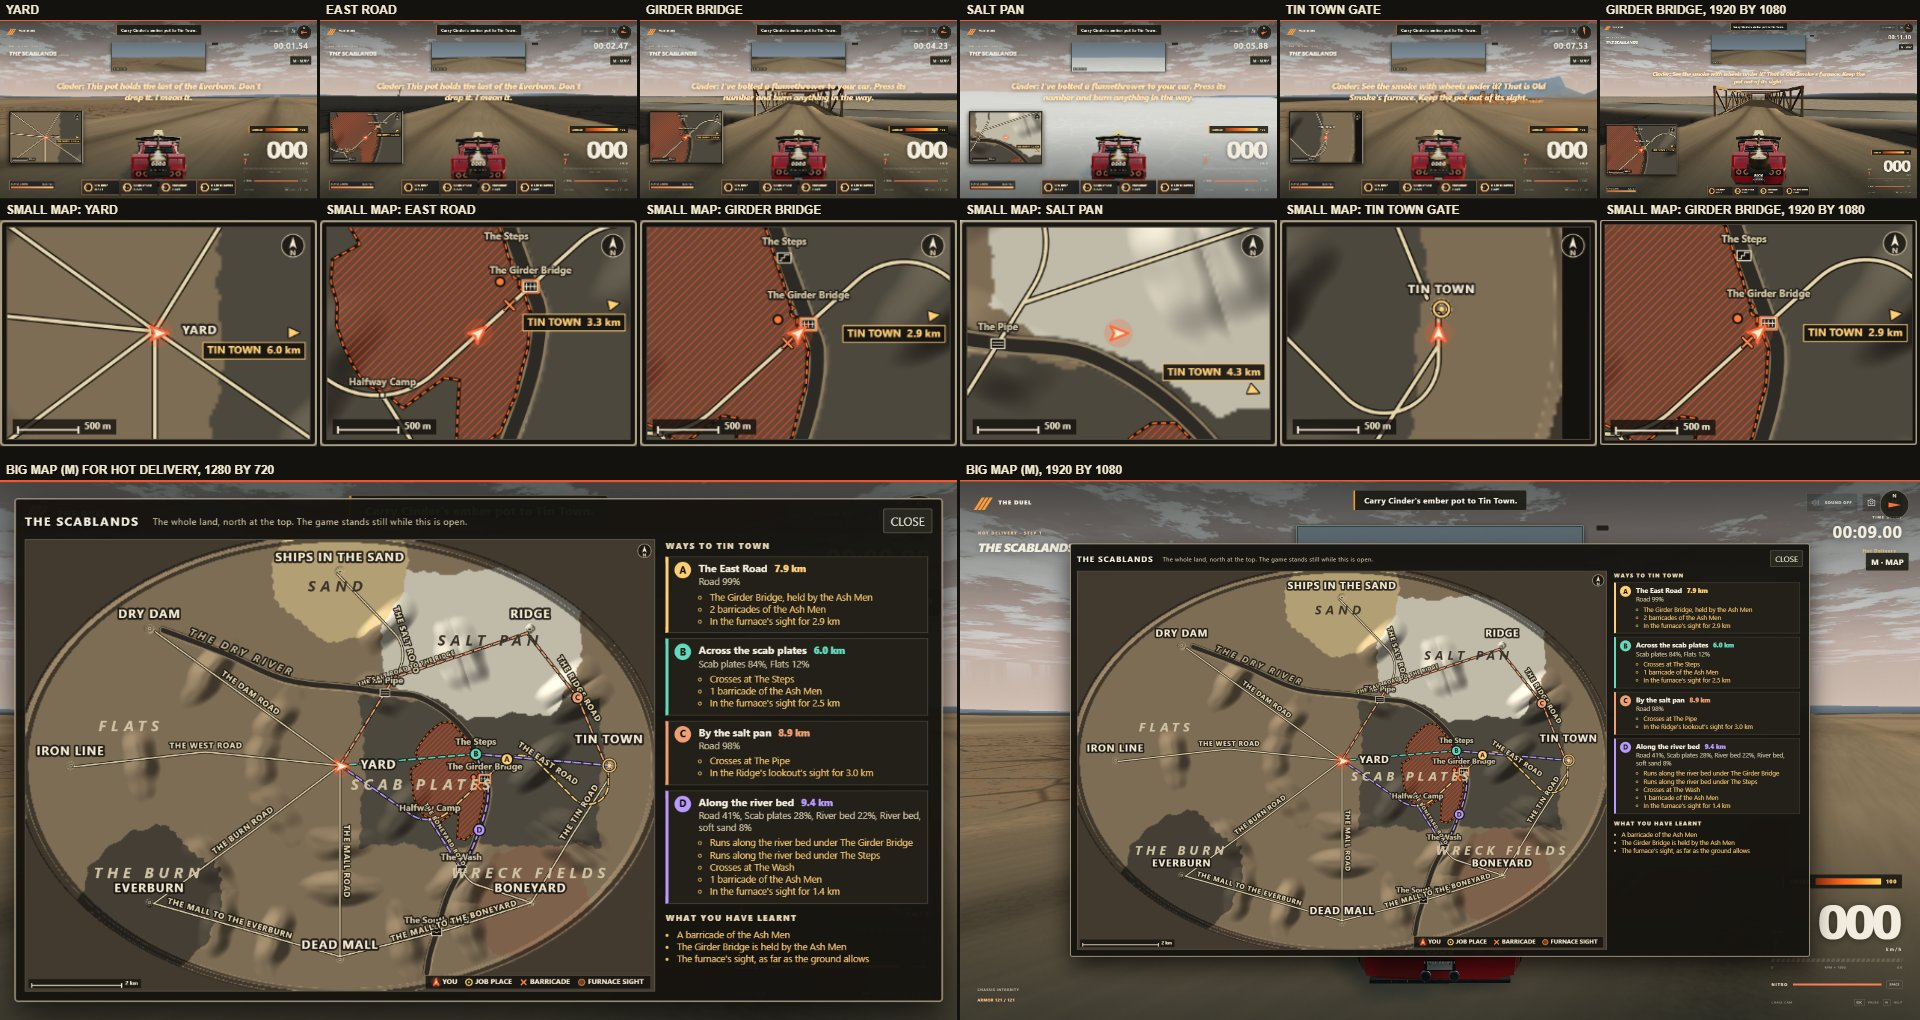
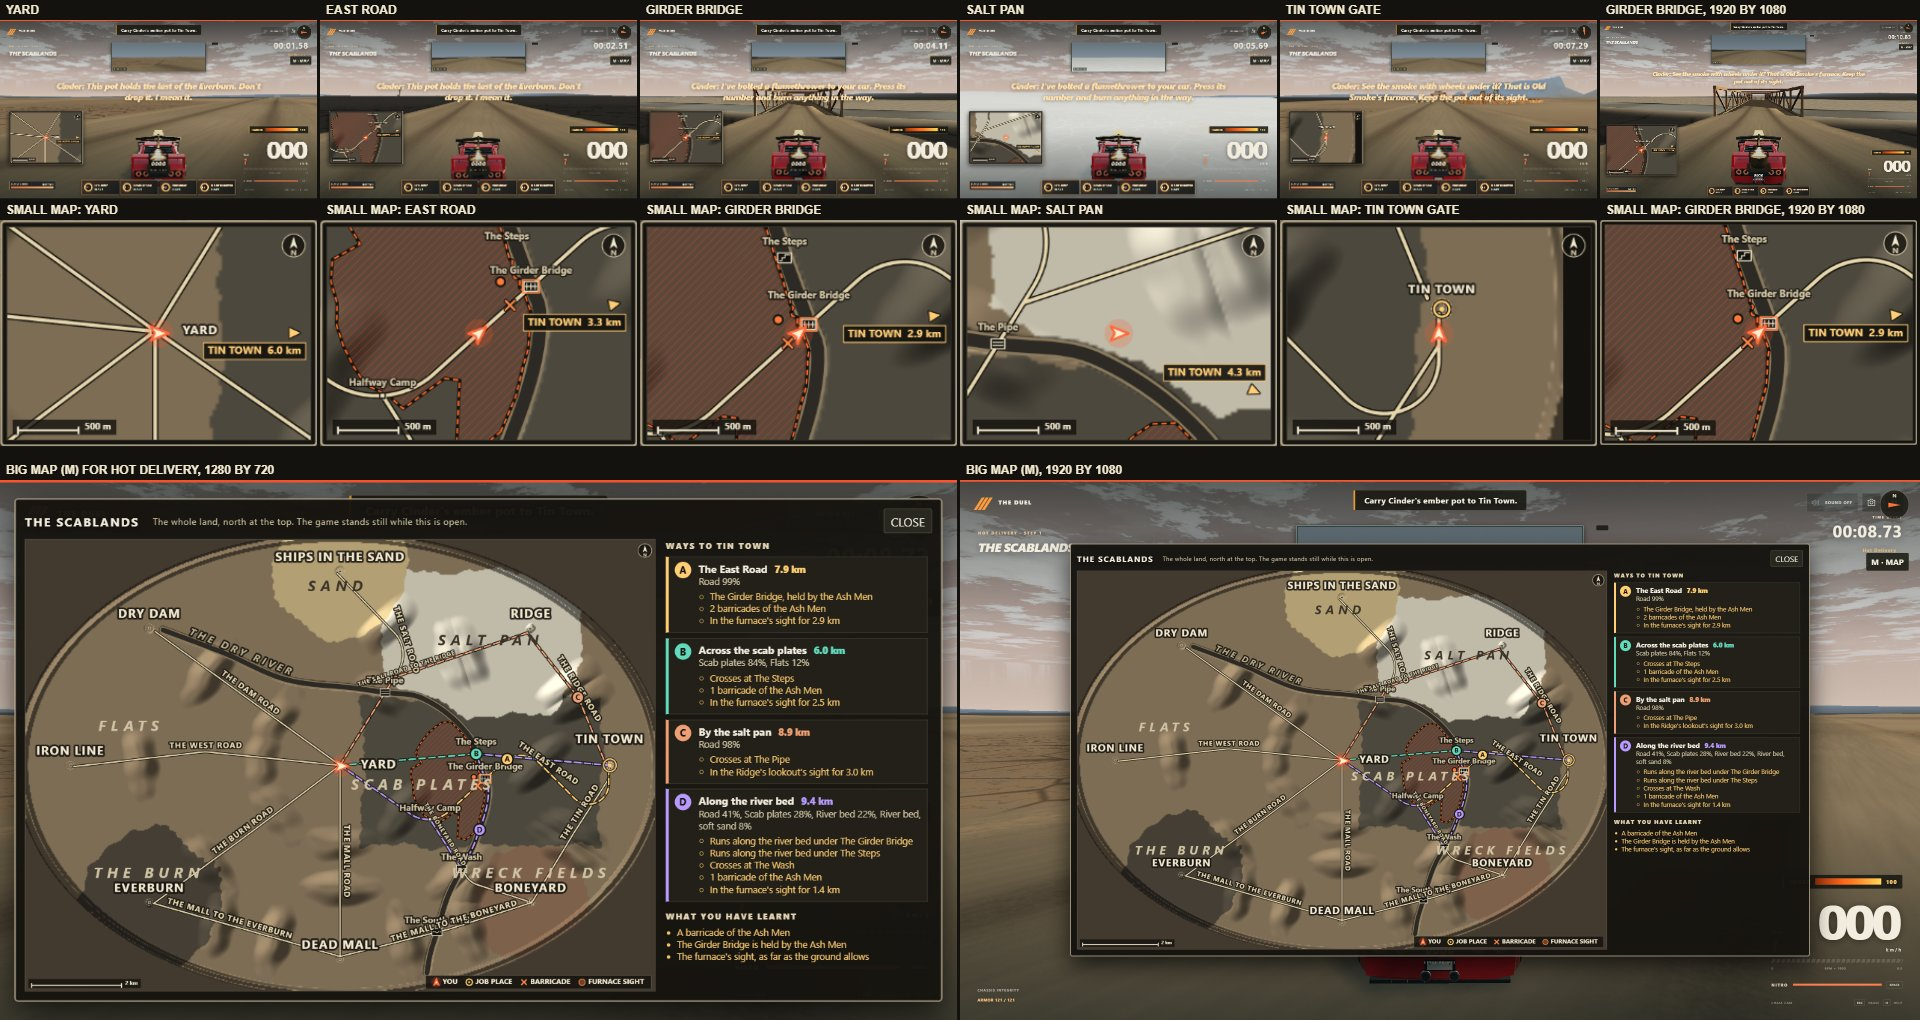
SCABLANDS-LAND round 4 slice 4: the map reviewed and merged
Claude at the merge: the furnace's sight is a light wash, not a heavy hatch that hid the ground. Sheet round-7 reviewed; changed assertions reviewed on the card.

diff --git a/src/world/scablands-map.js b/src/world/scablands-map.js
@@ -210,11 +210,11 @@ function drawSights(ctx, view, knowledge) {
     });
     outline.closePath();
     ctx.save();
-    ctx.fillStyle = '#ff3c142e'; ctx.fill(outline);
+    ctx.fillStyle = '#ff3c1416'; ctx.fill(outline);
     // Hatched, so that it is read as a region of sight and not as a ground: diagonal lines, cut to the outline.
     const hatch = new Path2D(), height = bottom - top;
     for (let x = Math.max(left - height, -height) - ((Math.max(left - height, -height)) % 11); x < Math.min(right, view.width); x += 11) { hatch.moveTo(x, bottom); hatch.lineTo(x + height, top); }
-    ctx.save(); ctx.clip(outline); ctx.strokeStyle = '#ff5a2a88'; ctx.lineWidth = 1.6; ctx.stroke(hatch); ctx.restore();
+    ctx.save(); ctx.clip(outline); ctx.strokeStyle = '#ff5a2a4a'; ctx.lineWidth = 1.1; ctx.stroke(hatch); ctx.restore();
     ctx.strokeStyle = '#17120d'; ctx.lineWidth = 4.5; ctx.stroke(outline);
     ctx.strokeStyle = '#ff6a2a'; ctx.lineWidth = 2.2; ctx.setLineDash([7, 5]); ctx.stroke(outline); ctx.setLineDash([]);
     const at = toScreen(view, sight.x, sight.z);

diff --git a/docs/board/cards/SCABLANDS-LAND.md b/docs/board/cards/SCABLANDS-LAND.md
@@ -570,6 +570,42 @@ than a fraction of a millisecond a frame (the land's picture is made once; only 
 markers move). The old route map's job line, its pixel rule that drops "TIN TOWN", and the two
 exemptions in the Everburn suites go.
 
+### Slice 4 result (a Sonnet helper; reviewed by Claude, 14 November 2026): merged, switches off
+
+Built as designed. Full note: `docs/changes/SCABLANDS-LAND.md`, "Round 4 slice 4". Sheet
+`docs/board/looks/scablands-land/round-7.jpg` with Claude's review beside it.
+
+- **One picture of the land** (560 by 400 cells of 25 m), painted from the ground's own colours
+  and the land's own height, made in small pieces over the first second of a job so that no
+  frame waits for it.
+- **The small map** on a dark panel at the lower left: 2.5 km across, north up, the car's arrow,
+  the job's place or an arrow at the edge with the distance, crossings and place names.
+- **The big map** (M) of the whole land, with the ways to the job listed from data. For Hot
+  Delivery: the East Road 7.9 km; across the scab plates 6.0 km by the Steps; by the salt pan
+  8.9 km over the Pipe; along the river bed 9.4 km by the Wash. The game stands still while it
+  is open, through the game's own pause.
+- **What the player has learnt** is kept and drawn: a barricade within 450 m, the bridge it
+  holds, the furnace's sight cut by the ground.
+- **Cost:** about a fifth of a millisecond a frame for the small map; 17 to 27 ms once when the
+  big map opens (measured in a browser with no graphics card; a guide).
+- The old job line, the rule that dropped "TIN TOWN" and the two exemptions in the Everburn
+  suites are gone.
+
+**Changed by Claude at the merge:** the furnace's sight is a light wash, not a heavy hatch.
+
+**Changed assertions, reviewed by Claude (rule 18).** None is loosened.
+- `test-everburn-play-fixes-a`, item 6: stronger. Every place, road and crossing must be named
+  on the big map in every job, with no exemption.
+- `test-everburn-play-fixes-round4`, items 1 and 2: the numbered rings for a job's several
+  places are replaced by "the marker is the next lamp, the next flag". This drops something a
+  player had on the old map. Accepted because jobs 2 and 5 are remade and their markers are
+  set then; recorded as owed in the look review.
+- `test-scablands-job-map`: the old drawing check becomes "the circuit panel draws nothing in a
+  world job". `tools/scenarios/run-gas.mjs` reads the new map's panel for its overlap check.
+
+**Not right yet:** see the look review (crowded road names, box-like edges of two regions, a
+ways list that tells all before it is learnt).
+
 ### Slice 2c design (Claude, 14 November 2026): hill country
 
 **Where the land rises.** Flat ground stays where a large fight belongs: the salt pan, the flats

diff --git a/docs/board/looks/scablands-land/round-7-review.md b/docs/board/looks/scablands-land/round-7-review.md
@@ -1,0 +1,44 @@
+# Scablands land, round 7: the map
+
+Sheet: `round-7.jpg` (pictures from the real game in a visible browser window on the QA page
+with memory-only saves). Taken 14 November 2026 with scenario `tools/scenarios/scablands-map.mjs`
+(run with `SCABLANDS_SHEET=1`), after Claude lightened the furnace's sight. Built by a Sonnet
+helper for Claude; reviewed by Claude the same day.
+
+Kyle on the map this replaces: "that map is entirely ridiculous."
+
+## What the pictures show
+
+Top row: the screen at the yard, on the East Road, at the Girder Bridge, on the salt pan and at
+Tin Town's gate, and the bridge again at 1920 by 1080. Second row: the small map at each of
+those. Bottom: the big map for Hot Delivery at 1280 by 720 and at 1920 by 1080.
+
+## Verdict (Claude): merged, behind switches that are off
+
+- **The small map can be used.** It sits on a dark panel, shows the ground, the roads, the river
+  and the named crossings round the car, turns the car's arrow with the car, and says "TIN TOWN
+  2.9 km" with an arrow when the town is off the map.
+- **The big map shows the whole land** with every place, road, crossing and kind of ground
+  named, and lists four ways to Tin Town with the length, the ground and who is on each, worked
+  out from the land's own data.
+- **It is one picture of the land made from the ground's own data**, so it follows the land when
+  the land changes. It reads as a worn field map, not a toy.
+- **Changed by Claude:** the furnace's sight was a heavy red hatch that hid the ground under
+  half the small map near the bridge. It is a light wash with a dashed edge now.
+
+Not right yet:
+
+- **Road names crowd the crossings' names** in four places on the big map (the Salt Road over
+  the Pipe, the Boneyard Road over the Halfway Camp and the Wash, the Mall road over the South
+  Ford).
+- **The salt pan and the scab plates have edges like a box** on the big map. That is the land's
+  own outline for them, and it is redrawn with natural edges in slice 2c.
+- **The rises read as soft pebbles.** They become hills in slice 2c.
+- **The ways list tells the player everything before any of it is learnt** (the held bridge, the
+  barricades, the furnace's sight). What a player is told at the start is settled with the
+  job's lead-up, in EVERBURN-REMAKE.
+- **A job with several places marks only the next one** (the three lamps, the five flags). The
+  old numbered rings went with the old map; several markers come back when those jobs are
+  remade.
+- **The picture fills in from the top during the first second of a job.**
+- A burnt barricade stays drawn, because nothing records that it burnt.

diff --git a/docs/board/run-log.md b/docs/board/run-log.md
@@ -1,5 +1,6 @@
 # Wasteland run log
 
+14 November, SCABLANDS-LAND round 4 slice 4 merged, switches off (Claude; built by a Sonnet helper): the map. One picture of the land from the ground's own data, a small map on a panel with the car's arrow and the distance to the job's place, a big map with every road, crossing and place named and the ways to the job listed from data; the old job line removed; builder's lane tier 84 of 85 (the sheet's review note, since written), `test-scablands-map` 1,798, replays unchanged; sheet round-7 reviewed.
 14 November, SCABLANDS-LAND round 4 slice 2a merged, switches off (Claude; built by a Sonnet helper): twelve roads, the dry river and five crossings, eight kinds of ground that each drive their own way, sixteen rises, the ember on the ground's safe speed; Claude capped the drag off a road at 40 mph a second and redrew the burn; sheet round-5 reviewed; replays unchanged. Kyle: hills, solid buildings that fall and cost scrap, and the map is ridiculous; designs for the map, solid ground, hill country and falling buildings are on the card.
 14 November, SCABLANDS-LAND round 4 slice 1 merged, switches off (Claude; built by a Sonnet helper): the Scablands are 14 km by 10 km, places held by name, detailed ground follows the player; the oval's length corrected to 3,288 m; builder's lane tier 106 suites (2 re-recorded for the land's size), build, `test-scablands-size` 9, replays unchanged; seen in a visible window at five spots, 18.1 to 18.3 ms p95 as a guide; five older Scablands browser scenarios fail and are listed on the card; slice 2 (river, roads, regions) designed.
 14 November, EVERBURN-REMAKE slice 1 merged, switches off (Claude; built by a Sonnet helper): the ember in Cinder's pot, the pot on the car, the gauge, braziers, pay by ember; rock costs ember by the metre after Claude's drive; lane tier 154 of 155 then the review note written; `everburn-play` scenario open on the card. Kyle: the larger Scablands first, 14 km by 10 km (SCABLANDS-LAND round 4).
